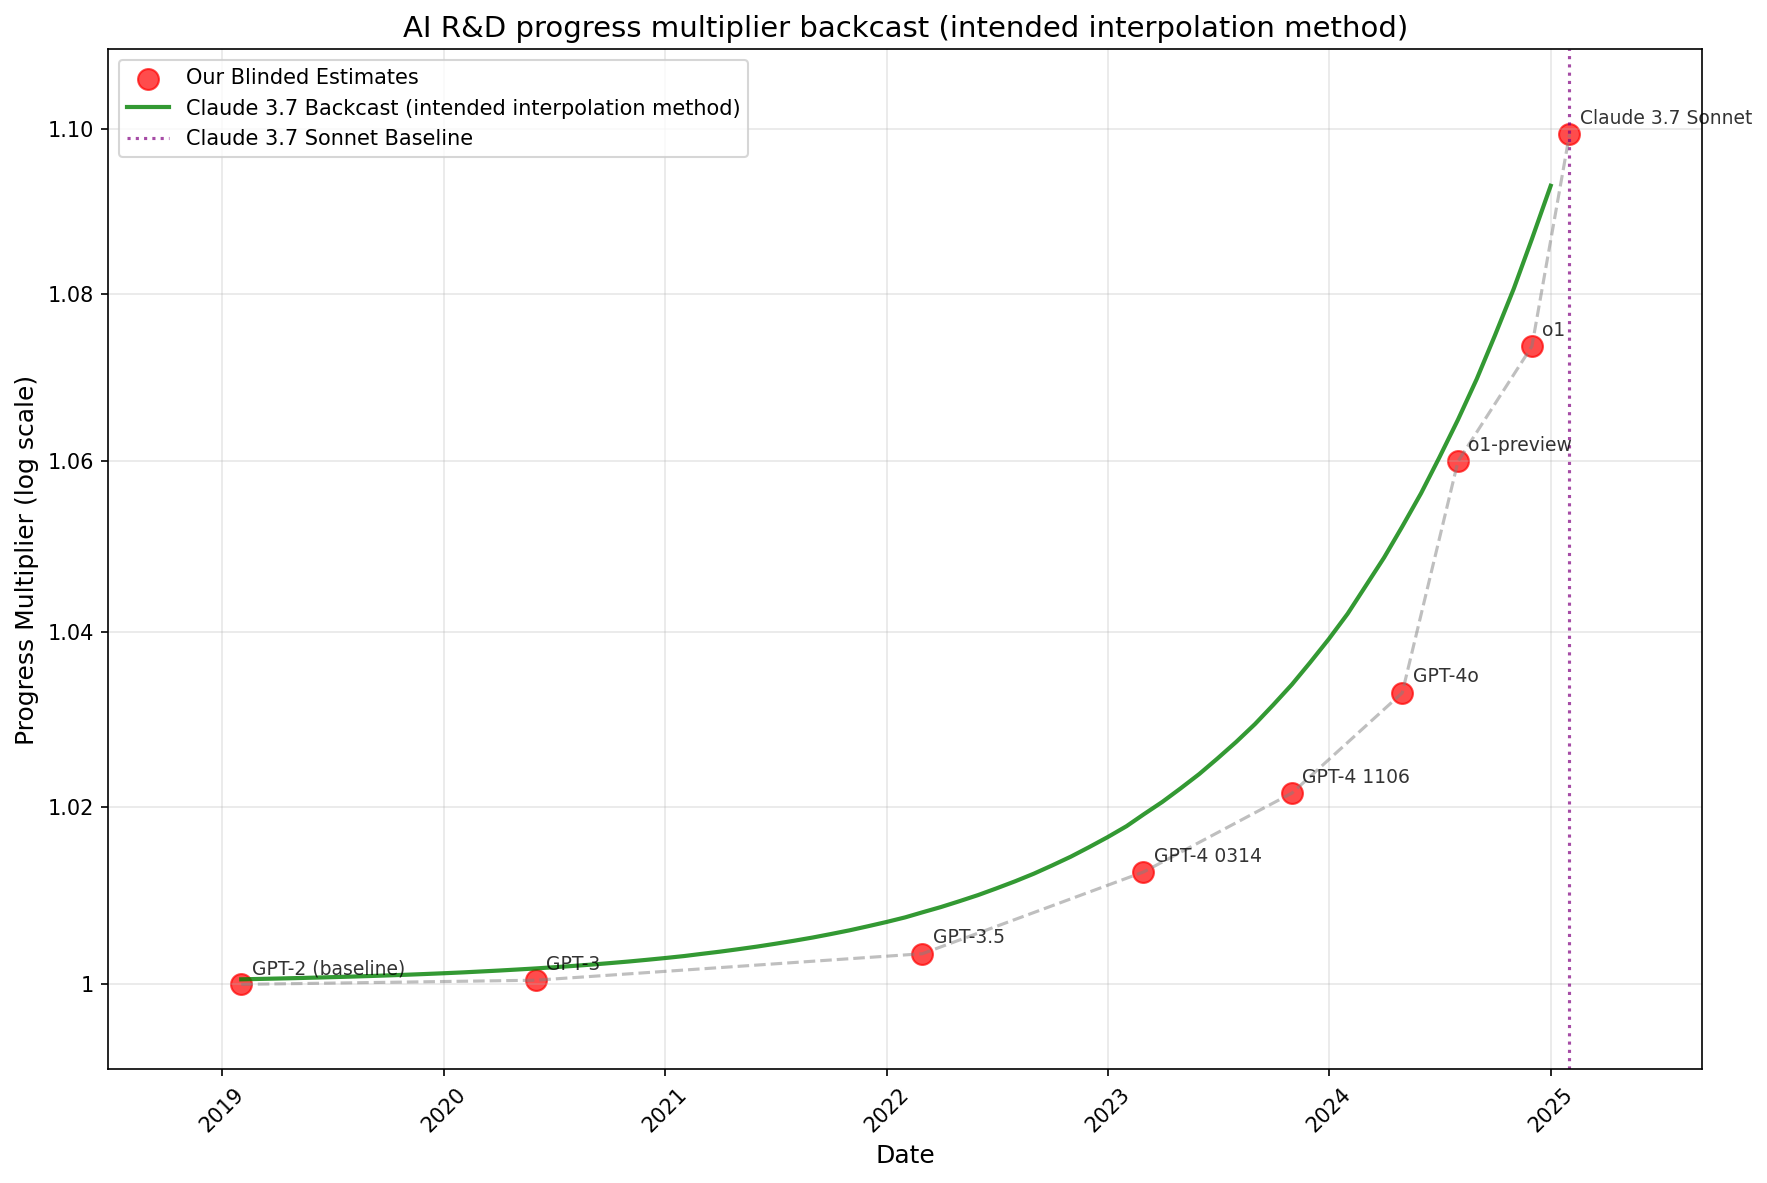
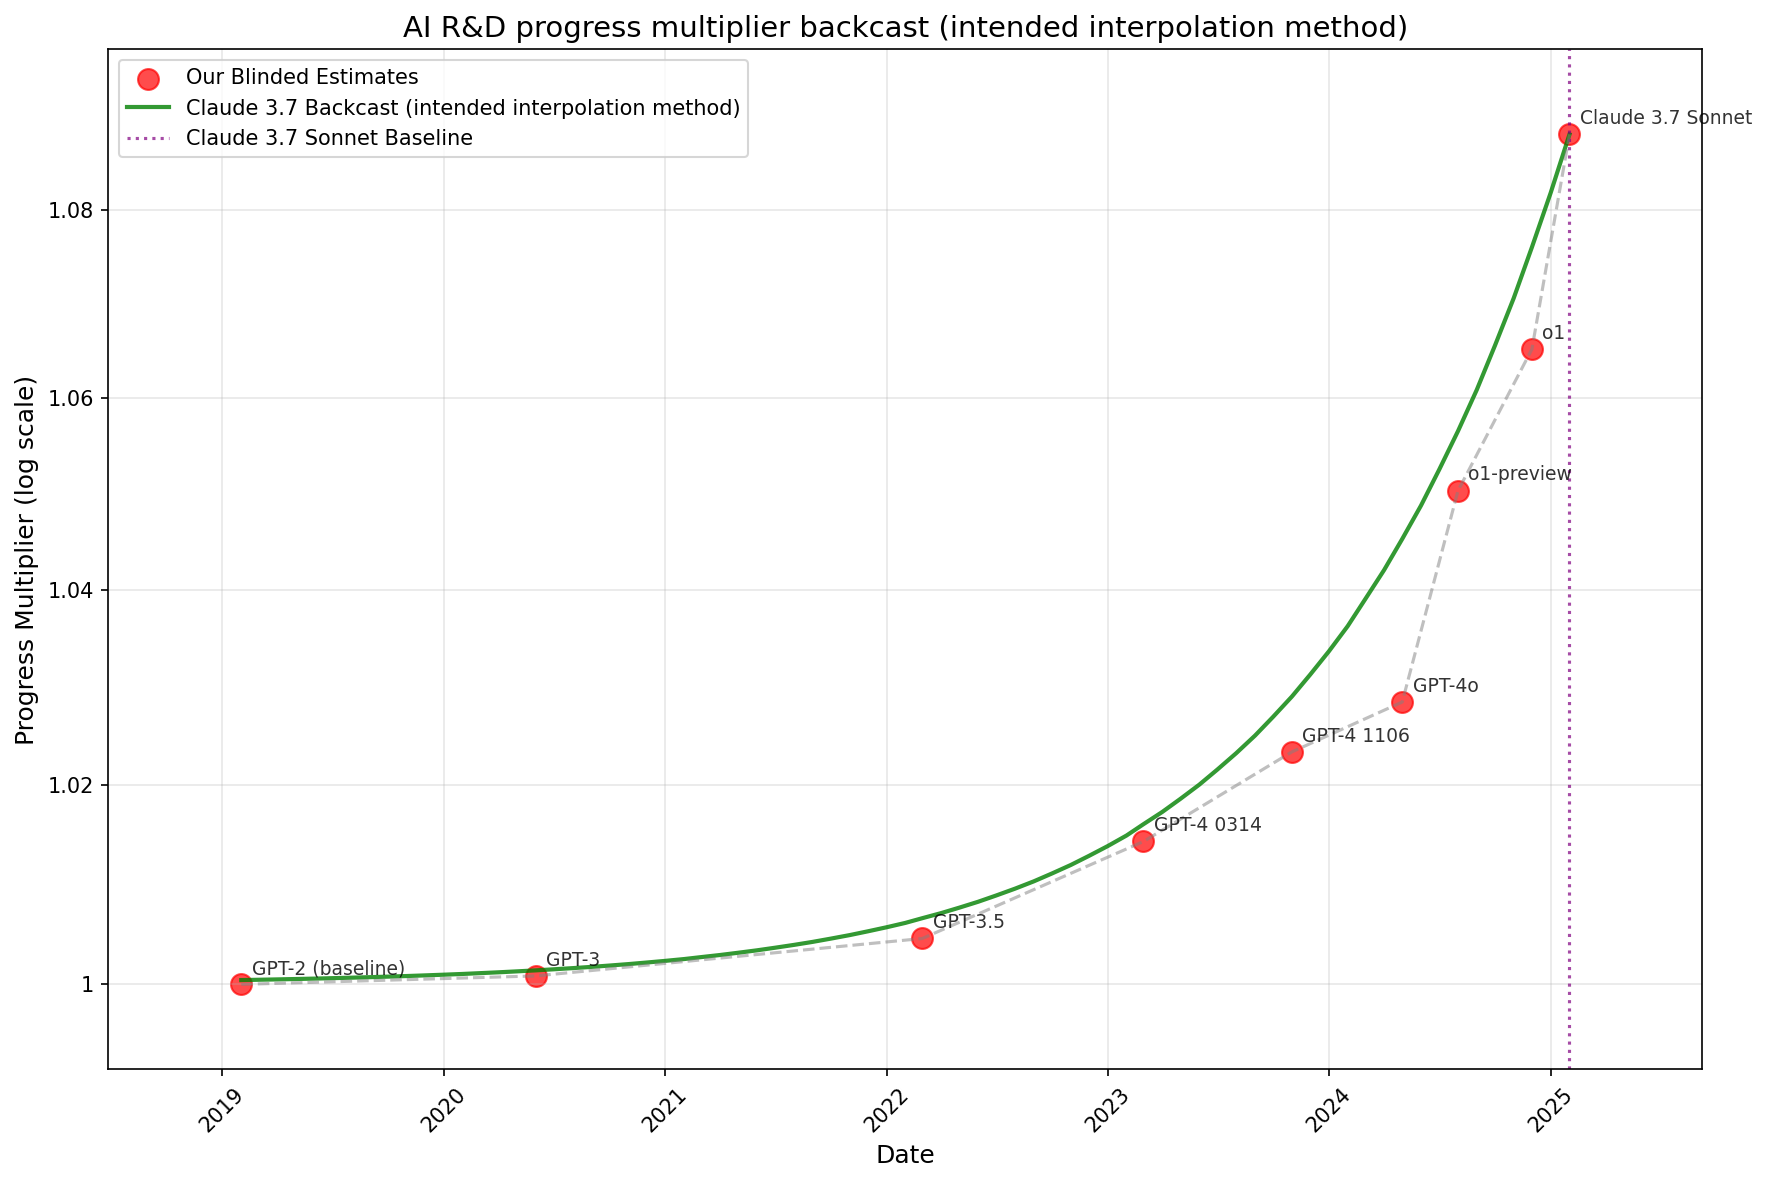
improved plotting

diff --git a/timelines_aird_automation_extrapolation/explore_interpolation_methods.py b/timelines_aird_automation_extrapolation/explore_interpolation_methods.py
@@ -12,8 +12,7 @@ def plain_number_formatter(x, pos):
     if x >= 1:
         if x == int(x):
             return f'{int(x)}'
-        elif x < 10:
-            print(f'test {x:.2f}')
+        elif x < 100:
             return f'{x:.2f}'
         else:
             return f'{x:.1f}'
@@ -24,14 +23,17 @@ def plain_number_formatter(x, pos):
     else:
         return f'{x:.4f}'
 
+# Models to exclude from all plots
+EXCLUDED_MODELS = ['o4-mini', 'o3']
+
 # Output directory for saving figures
 OUTPUT_DIR = os.path.join(os.path.dirname(__file__), 'outputs', 'interpolation_plots')
 os.makedirs(OUTPUT_DIR, exist_ok=True)
 
 def create_interpolation_model():
     """Create interpolation model based on Claude 3.7 Sonnet baseline"""
-    # Claude 3.7 Sonnet baseline (Feb 2025): progress multiplier = 1.1
-    baseline_progress_multiplier = 1.1
+    # Claude 3.7 Sonnet baseline (Feb 2025): progress multiplier from CSV
+    baseline_progress_multiplier = 1.08818835  # Actual value from progress_multiplier_estimates.csv
     baseline_date = datetime(2025, 2, 1)
     
     # 60 months later: progress multiplier = 8.5
@@ -68,7 +70,7 @@ def create_gpt3_to_claude37_interpolation(df):
     
     for idx, row in df.iterrows():
         try:
-            model_name = row['Column 1']
+            model_name = row['Model name']
             if 'GPT-3' in model_name and 'GPT-3.5' not in model_name:
                 gpt3_progress_mult = row['Progress multiplier']
                 month, year = row['Date'].split('/')
@@ -141,7 +143,7 @@ def fit_double_exponential_to_data_original(df):
             
             # Get progress multiplier w/Apr 2025 as 1
             progress_multiplier_apr2025.append(row['Progress multiplier w/Apr 2025 as 1'])
-            model_names.append(row['Column 1'])
+            model_names.append(row['Model name'])
         except:
             continue
     
@@ -234,7 +236,7 @@ def fit_double_exponential_to_data(df):
             
             # Get progress multiplier w/Apr 2025 as 1
             progress_multiplier_apr2025.append(row['Progress multiplier w/Apr 2025 as 1'])
-            model_names.append(row['Column 1'])
+            model_names.append(row['Model name'])
         except:
             continue
     
@@ -336,25 +338,28 @@ def fit_double_exponential_to_data(df):
         except:
             return None, x_data, y_data, model_names, 0, 0
 
-def load_and_plot_aird_estimates():
+def load_and_plot_progress_multiplier_estimates():
     """Load AIRD estimates CSV and plot progress multiplier vs. 80% time horizon"""
     
     # Read the CSV file
-    df = pd.read_csv('aird_estimates.csv')
+    df = pd.read_csv('progress_multiplier_estimates.csv')
     
     # Remove rows where all values are NaN or empty
     df = df.dropna(how='all')
     
     # Also remove rows where the essential columns are empty
     df = df.dropna(subset=['80% time horizon', 'Progress multiplier'])
-    
+
+    # Filter out excluded models
+    df = df[~df['Model name'].isin(EXCLUDED_MODELS)]
+
     # Print column names to debug
     print("Available columns:", df.columns.tolist())
     
     # Extract the columns we need
     time_horizon = df['80% time horizon'].astype(float)
     progress_multiplier = df['Progress multiplier'].astype(float)
-    model_names = df['Column 1']
+    model_names = df['Model name']
     dates = df['Date']
     
     # Parse dates - convert from "MM/YYYY" format to datetime
@@ -399,9 +404,9 @@ def load_and_plot_aird_estimates():
     # Create figure with single subplot (backcast only)
     fig, ax = plt.subplots(1, 1, figsize=(12, 8))
     
-    # Filter interpolation data to only show backcast (before baseline_date)
-    backcast_dates = [d for d in interpolation_dates if d < baseline_date]
-    backcast_progress_multipliers = [interpolation_progress_multipliers[i] for i, d in enumerate(interpolation_dates) if d < baseline_date]
+    # Filter interpolation data to only show backcast (up to and including baseline_date)
+    backcast_dates = [d for d in interpolation_dates if d <= baseline_date]
+    backcast_progress_multipliers = [interpolation_progress_multipliers[i] for i, d in enumerate(interpolation_dates) if d <= baseline_date]
     
     # Filter Our Blinded Estimates to include backcast + Claude 3.7 Sonnet baseline point
     backcast_actual_dates = [d for d in parsed_dates if d is not None and d <= baseline_date]
@@ -451,6 +456,37 @@ def load_and_plot_aird_estimates():
     # Save the plot
     plt.savefig(os.path.join(OUTPUT_DIR, 'backcast_interpolation.png'), dpi=150, bbox_inches='tight')
     plt.close()
+
+    # Create comparison CSV of backcast interpolation vs blinded estimates
+    comparison_data = []
+    for i, (date, model) in enumerate(zip(parsed_dates, model_names)):
+        if date is None:
+            continue
+        # Calculate months from baseline (Claude 3.7 Sonnet)
+        months_from_baseline = (date.year - baseline_date.year) * 12 + (date.month - baseline_date.month)
+        # Get interpolated value
+        interpolated_value = interpolate_fn(months_from_baseline)
+        # Get actual blinded estimate
+        actual_value = progress_multiplier.iloc[i]
+        # Calculate difference
+        difference = actual_value - interpolated_value
+        pct_difference = (difference / interpolated_value) * 100 if interpolated_value != 0 else 0
+
+        comparison_data.append({
+            'Model': model,
+            'Date': date.strftime('%m/%Y'),
+            'Months from Claude 3.7': months_from_baseline,
+            'Blinded Estimate': actual_value,
+            'Interpolated Value': interpolated_value,
+            'Difference': difference,
+            'Percent Difference': pct_difference
+        })
+
+    # Create DataFrame and save to CSV
+    comparison_df = pd.DataFrame(comparison_data)
+    comparison_csv_path = os.path.join(OUTPUT_DIR, 'backcast_comparison.csv')
+    comparison_df.to_csv(comparison_csv_path, index=False)
+    print(f"\nBackcast comparison saved to: {comparison_csv_path}")
 
     # Print some basic statistics
     print("\nBasic Statistics:")
@@ -598,7 +634,7 @@ def load_and_plot_aird_estimates():
         
         # Second plot: Recent points only (no forecast to 60 months)
         # Show from GPT-3 to Claude 3.7 Sonnet period
-        recent_end_date = claude_37_date + relativedelta(months=6)  # A bit past Claude 3.7 Sonnet
+        recent_end_date = claude_37_date  # Stop at Claude 3.7 Sonnet
         
         # Filter data for recent period
         recent_actual_dates = [d for d in parsed_dates if d is not None and gpt3_date <= d <= recent_end_date]
@@ -1043,4 +1079,4 @@ def load_and_plot_aird_estimates():
     return df
 
 if __name__ == "__main__":
-    data = load_and_plot_aird_estimates()
+    data = load_and_plot_progress_multiplier_estimates()
